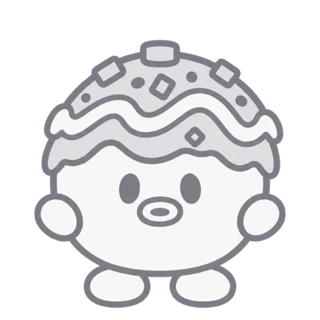
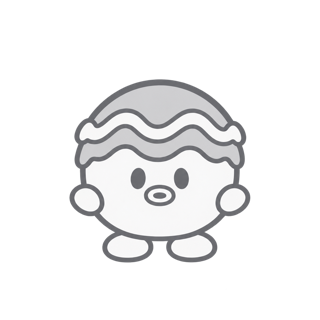
feat: 오픈 예정 '곧 오픈' 표시와 빈 상태·출석 카드 그림 교체

Changed region(s): [[0.0938, 0.125, 0.9062, 0.9688]]

diff --git a/src/entities/event/ui/UpcomingEventCard.tsx b/src/entities/event/ui/UpcomingEventCard.tsx
@@ -3,7 +3,7 @@ import { Link } from 'react-router-dom';
 
 import { useVirtualClock } from '@shared/model/virtualClock';
 import { StatusDot } from '@shared/ui/status-dot';
-import { formatKst } from '@shared/utils/date';
+import { formatKst, kstDayDiff } from '@shared/utils/date';
 import { formatNumber } from '@shared/utils/format';
 
 import type { Event } from '../model/types';
@@ -17,14 +17,24 @@ const TIME_ONLY: Intl.DateTimeFormatOptions = {
     hour12: false,
 };
 
-/** 이 시간 안에 열리면 마젠타 점 — "지금" 신호는 곧 열리는 것에만 쓴다 (DESIGN-SYSTEM 13절) */
+/** 이 시간 안에 열리면 겟또타임 카드처럼 '곧 오픈'을 브랜드색으로 적는다 — "지금" 신호는 곧 열리는 것에만 쓴다 (DESIGN-SYSTEM 13절) */
 const SOON_MS = 30 * 60 * 1000;
 const SOON_CHECK_MS = 30 * 1000;
+
+const MONTH_DAY: Intl.DateTimeFormatOptions = { month: 'numeric', day: 'numeric' };
+
+/** 오픈 날 — 오늘·내일, 그 뒤는 날짜. 목록에 다음 날 래플이 섞여도 '오늘'로 적지 않는다 */
+function openDayLabel(startsAt: string, now: Date): string {
+    const diff = kstDayDiff(startsAt, now);
+    if (diff <= 0) return '오늘';
+    if (diff === 1) return '내일';
+    return formatKst(startsAt, MONTH_DAY);
+}
 
 /** 오픈 예정 이벤트 행 — 컨테이너 카드 안에 여러 개가 쌓이는 형태라 자체 카드 테두리는 두지 않는다 */
 export function UpcomingEventCard({ event }: { event: Event }) {
     const { now } = useVirtualClock();
-    // 카드를 띄워 둔 채 30분 안으로 들어와도 점이 바뀌게 주기적으로 다시 잰다 — 점 색만 바뀌니 30초면 충분하다
+    // 카드를 띄워 둔 채 30분 안으로 들어와도 '곧 오픈'으로 바뀌게 주기적으로 다시 잰다 — 문구만 바뀌니 30초면 충분하다
     const [tick, setTick] = useState(() => now().getTime());
     useEffect(() => {
         const update = () => setTick(now().getTime());
@@ -34,6 +44,7 @@ export function UpcomingEventCard({ event }: { event: Event }) {
     }, [now]);
     const untilOpen = new Date(event.startsAt).getTime() - tick;
     const soon = untilOpen > 0 && untilOpen <= SOON_MS;
+    const time = formatKst(event.startsAt, TIME_ONLY);
 
     return (
         <Link
@@ -45,9 +56,14 @@ export function UpcomingEventCard({ event }: { event: Event }) {
             {/* 겟또타임 래플이라 상품 그림 — 1:1로 잘리지 않게 맞춘다 */}
             <EventThumbnail src={event.bannerImageUrl} className="size-16" />
             <div className="flex min-w-0 flex-col gap-1">
-                <StatusDot tone={soon ? 'info' : 'muted'}>
-                    오늘 {formatKst(event.startsAt, TIME_ONLY)} 오픈 예정
-                </StatusDot>
+                {/* 색 점만으로는 왜 하나만 다른지 알 수 없어 '곧 오픈'을 글자로 적고, 나머지는 회색 예정 안내로 둔다 */}
+                {soon ? (
+                    <StatusDot tone="brand">{time} 곧 오픈</StatusDot>
+                ) : (
+                    <StatusDot tone="muted">
+                        {openDayLabel(event.startsAt, new Date(tick))} {time} 오픈 예정
+                    </StatusDot>
+                )}
                 <p className="text-body-bold text-fg-primary truncate">{event.title}</p>
                 {/* 당첨 인원은 제목 옆 괄호 대신 아랫줄에 — 괄호만으로는 무슨 인원인지 헷갈렸다. 목록 응답에는 prizes가 없어 인원이 비면 문구를 뺀다 */}
                 <p className="text-caption text-fg-tertiary">

diff --git a/src/widgets/ticketBalance/ui/TicketBalanceWidget.tsx b/src/widgets/ticketBalance/ui/TicketBalanceWidget.tsx
@@ -5,7 +5,7 @@ import { Link } from 'react-router-dom';
 
 import type { Game } from '@entities/game';
 
-import { useAttendanceToday } from '@entities/attendance';
+import { ATTENDANCE_THUMBNAIL, useAttendanceToday } from '@entities/attendance';
 import { GameTicketCard, gameDetailPath, useGameList } from '@entities/game';
 import { missionThumbnail, useMissionList } from '@entities/mission';
 import { hasGamePlayer } from '@features/playGame';
@@ -27,7 +27,7 @@ interface EarnCard extends OrderableEarnCard {
     rewardKind: string;
     href: string;
     actionLabel: string;
-    /** 카드 상단 썸네일 — 이미지가 있으면 보여주고(게임), 없으면 임시로 회색 블록 + 아이콘 */
+    /** 카드 상단 썸네일 — 이미지가 있으면 보여주고(출석·미션·게임), 없으면 회색 블록 + 아이콘 */
     thumbnailUrl: string | null;
     thumbnailIcon: LucideIcon;
     /** 게임 카드면 미션 페이지와 같은 공용 게임 카드(GameTicketCard)로 그린다 */
@@ -71,7 +71,7 @@ export function TicketBalanceWidget({
                       href: '/missions#today-attendance',
                       actionLabel: '출석하러 가기',
                       completed: attendance.attended,
-                      thumbnailUrl: null,
+                      thumbnailUrl: ATTENDANCE_THUMBNAIL,
                       thumbnailIcon: CalendarCheck,
                   },
               ]

diff --git a/src/shared/ui/empty-state.tsx b/src/shared/ui/empty-state.tsx
@@ -4,7 +4,7 @@ import emptyTakko from '@shared/assets/mascot/empty-takko.png';
 import { cn } from '@shared/utils/cn';
 
 /**
- * 빈 상태 — 회색 선 캐릭터(피그마 image 261)와 짧은 안내. 칸 높이는 부모가 정하고, 이 블록은 그 안 가운데에 선다.
+ * 빈 상태 — 회색 선 캐릭터(피그마 image 262)와 짧은 안내. 칸 높이는 부모가 정하고, 이 블록은 그 안 가운데에 선다.
  * 목록이 비었을 때 칸을 지우지 않고 이걸 둬 화면이 들썩이지 않게 한다
  */
 function EmptyState({

diff --git a/src/entities/attendance/model/thumbnail.ts b/src/entities/attendance/model/thumbnail.ts
@@ -1,0 +1,4 @@
+import attendanceThumbnail from '../assets/attendance-thumbnail.png';
+
+/** 출석 체크 카드 그림 — 미션 기본 그림과 같은 16:9 투명 바탕 (피그마 image 263) */
+export const ATTENDANCE_THUMBNAIL = attendanceThumbnail;

diff --git a/src/entities/attendance/index.ts b/src/entities/attendance/index.ts
@@ -21,3 +21,4 @@ export type {
     AttendanceToday,
     RewardReceipt,
 } from './model/types';
+export { ATTENDANCE_THUMBNAIL } from './model/thumbnail';
